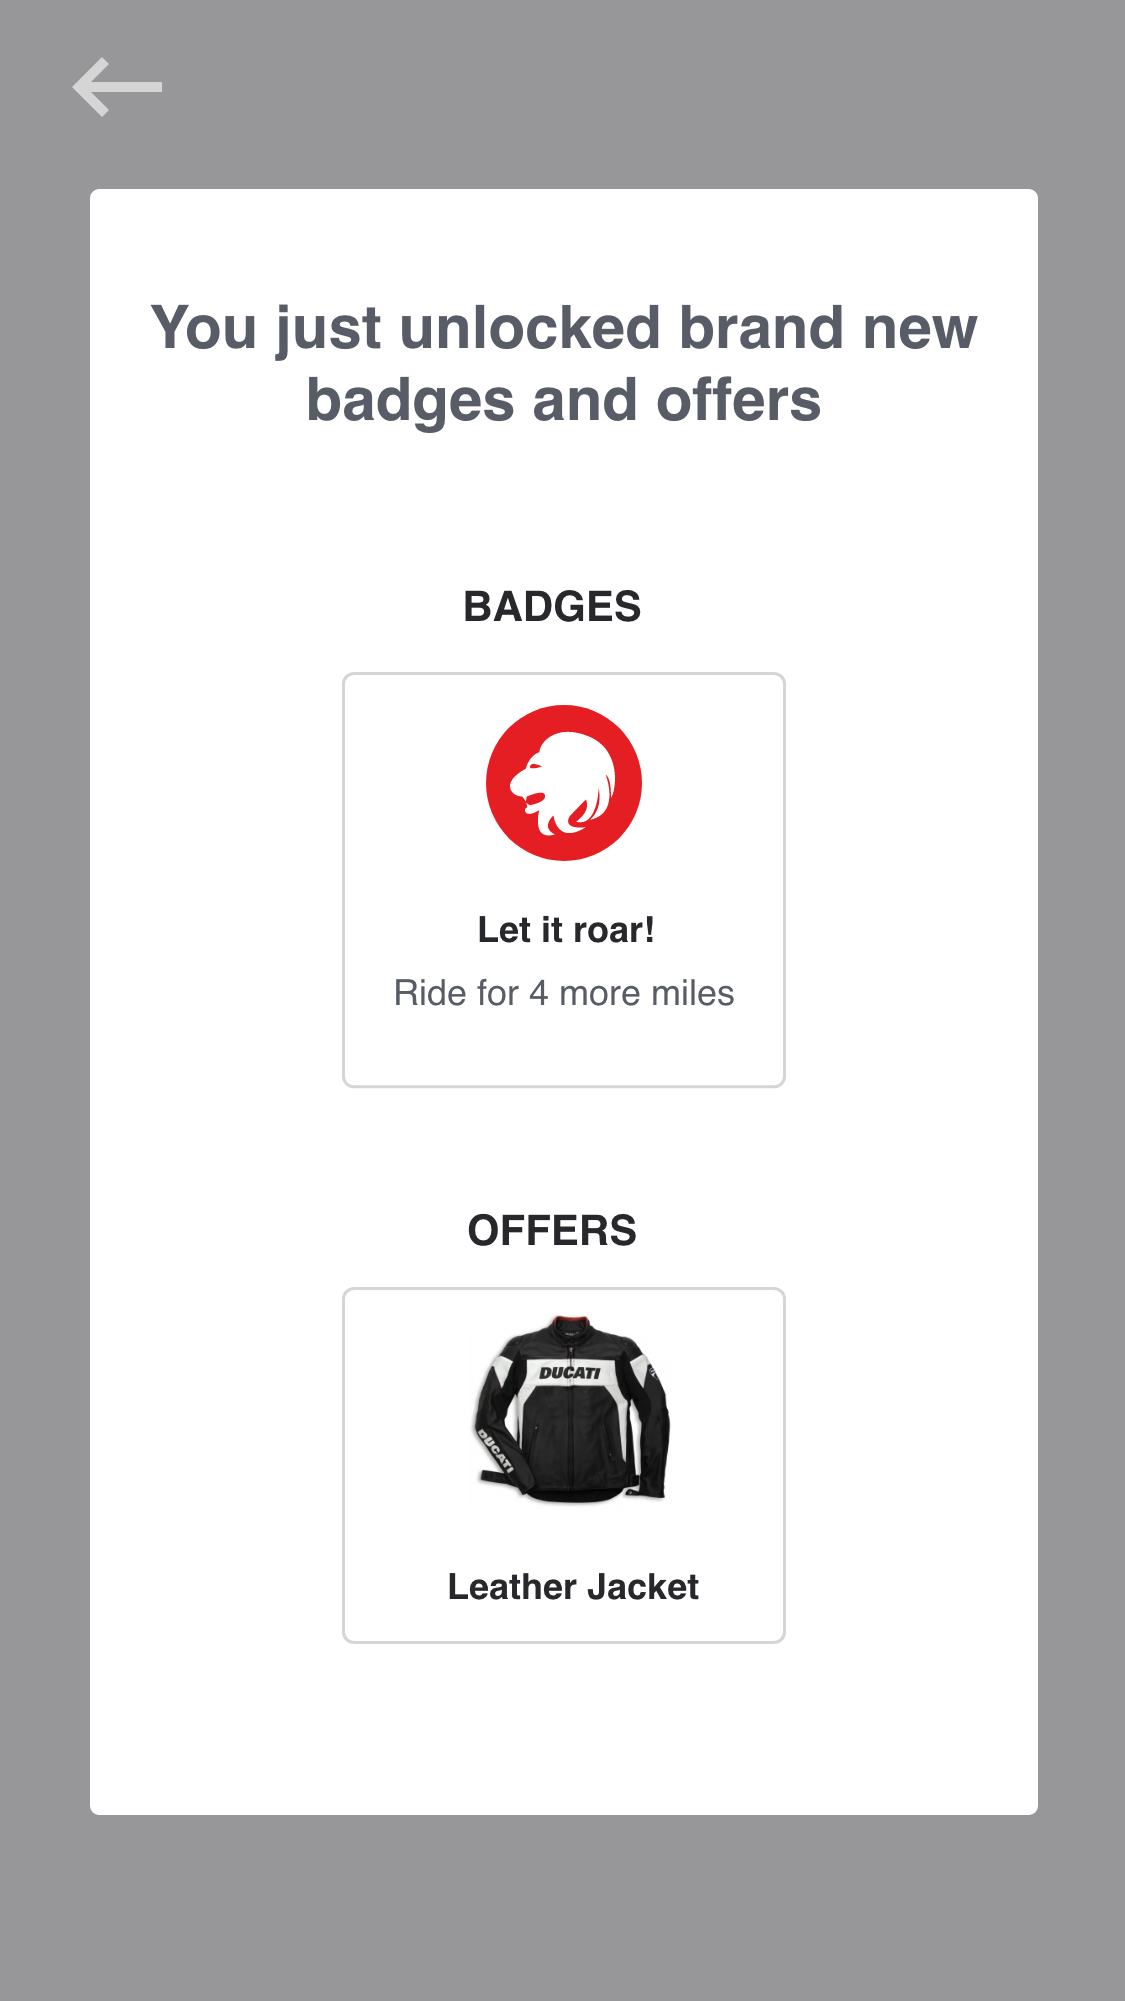
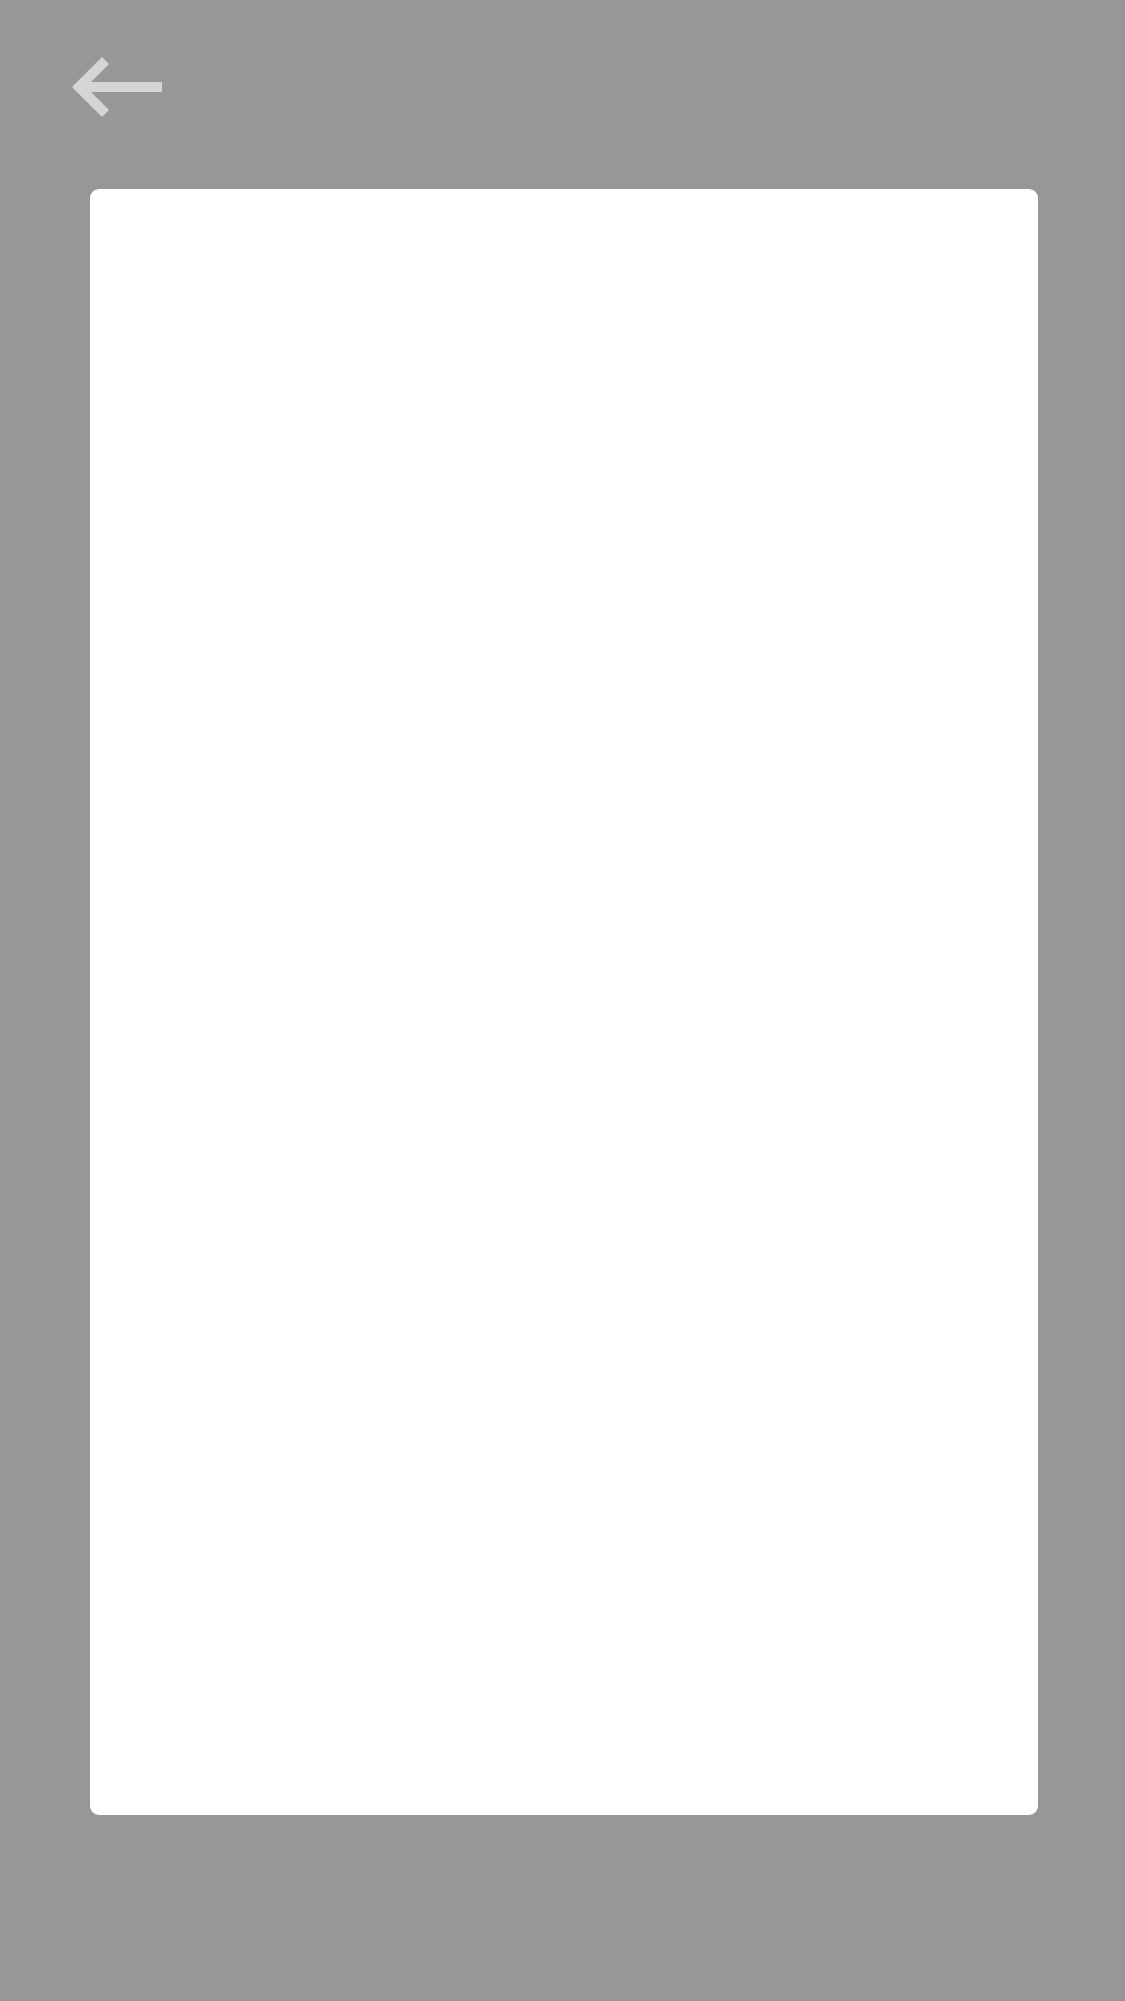
sync with latest changes

diff --git a/src/pages/profile/profile.ts b/src/pages/profile/profile.ts
@@ -2,7 +2,6 @@ import { Component } from '@angular/core';
 import { ModalController, NavController, App } from 'ionic-angular';
 import { Socket } from 'ng-socket-io';
 import { PopUpPage } from '../popup/popup';
-import { ItemPage } from '../item/item';
 import { LoginPage } from '../login/login';
 
 @Component({
@@ -12,7 +11,7 @@ import { LoginPage } from '../login/login';
 export class ProfilePage {
   current: number = 1;
   constructor(private app: App, public modal: ModalController, private socket: Socket, public nav: NavController) {
-    this.socket.on('message', (data) => this.openModal(''));
+    this.socket.on('message', (data) => this.openModal());
   }
 
   reset() {
@@ -23,8 +22,7 @@ export class ProfilePage {
     this.current = i;
   }
 
-  openModal(which) {
-    const page = which === 'item' ? ItemPage : PopUpPage;
-    this.modal.create(page).present();
+  openModal() {
+    this.modal.create(PopUpPage).present();
   }
 }

diff --git a/src/app/app.module.ts b/src/app/app.module.ts
@@ -15,7 +15,6 @@ import { RidePage } from '../pages/ride/ride';
 import { ProfilePage } from '../pages/profile/profile';
 import { LockPage } from '../pages/lock/lock';
 import { PopUpPage } from '../pages/popup/popup';
-import { ItemPage } from '../pages/item/item';
 
 import { SocketIoModule, SocketIoConfig } from 'ng-socket-io';
 const config: SocketIoConfig = { url: 'https://ducati-server-demo.herokuapp.com', options: {} };
@@ -32,8 +31,7 @@ const config: SocketIoConfig = { url: 'https://ducati-server-demo.herokuapp.com'
     RidePage,
     ProfilePage,
     LockPage,
-    PopUpPage,
-    ItemPage
+    PopUpPage
   ],
   imports: [
     BrowserModule,
@@ -52,8 +50,7 @@ const config: SocketIoConfig = { url: 'https://ducati-server-demo.herokuapp.com'
     RidePage,
     ProfilePage,
     LockPage,
-    PopUpPage,
-    ItemPage
+    PopUpPage
   ],
   providers: [
     StatusBar,

diff --git a/src/pages/popup/popup.html b/src/pages/popup/popup.html
@@ -1,6 +1,16 @@
 <ion-content>
   <div class="page-popup-bg" style="background-image: url('assets/bg/popup.png')">
     <a (click)="back()" class="page-popup-back-link"></a>
-    <a (click)="show()" class="page-popup-show-link"></a>
+    <a (click)="next()" class="page-popup-show-link"></a>
+    <div class="page-popup-slides-wrapper">
+      <ion-slides>
+        <ion-slide>
+          <img src="assets/slide/popup/1.png" class="page-popup-image" (click)="next()" class="page-popup-slides-first" />
+        </ion-slide>
+        <ion-slide>
+          <img src="assets/slide/popup/2.png" class="page-popup-image" class="page-popup-slides-last" />
+        </ion-slide>
+      </ion-slides>
+    </div>
   </div>
 </ion-content>

diff --git a/src/pages/popup/popup.ts b/src/pages/popup/popup.ts
@@ -1,14 +1,13 @@
-import { Component } from '@angular/core';
-import { ModalController } from 'ionic-angular';
+import { Component, ViewChild } from '@angular/core';
+import { ModalController, Slides } from 'ionic-angular';
 import { ViewController } from 'ionic-angular';
-import { ItemPage } from '../item/item';
 
 @Component({
   selector: 'page-popup',
   templateUrl: 'popup.html'
 })
 export class PopUpPage {
-
+  @ViewChild(Slides) slides: Slides;
   constructor(public modal: ModalController, public view: ViewController) {
 
   }
@@ -17,8 +16,8 @@ export class PopUpPage {
     this.view.dismiss();
   }
 
-  show() {
-    this.modal.create(ItemPage).present();
+  next() {
+    this.slides.slideNext();
   }
 
 }

diff --git a/src/pages/popup/popup.scss b/src/pages/popup/popup.scss
@@ -1,4 +1,19 @@
 .page-popup {
+  &-slides {
+    &-first {
+      width: 90% !important;
+    }
+    &-last {
+      width: 80% !important;
+    }
+    &-wrapper {
+      width: 350px;
+      height: 600px;
+      position: absolute;
+      left: 33px;
+      top: 69px;
+    }
+  }
   &-bg {
     background-repeat: no-repeat;
     background-position: center center;
